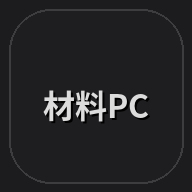
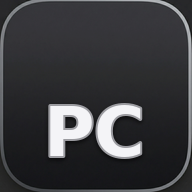
Add files via upload

diff --git a/index.html b/index.html
@@ -3,7 +3,7 @@
 <head>
     <meta charset="UTF-8">
     <meta name="viewport" content="width=device-width, initial-scale=1.0, maximum-scale=1.0, user-scalable=no, viewport-fit=cover">
-    <title>材料取り・面積計算 アプリ</title>
+    <title>KYOWA ROOF</title>
     <!-- Tailwind CSS -->
     <script src="https://cdn.tailwindcss.com"></script>
     <!-- React & ReactDOM -->
@@ -166,6 +166,16 @@
         }
 
     </style>
+
+    <meta name="theme-color" content="#0b0b0f">
+    <meta name="apple-mobile-web-app-capable" content="yes">
+    <meta name="apple-mobile-web-app-status-bar-style" content="black-translucent">
+    <meta name="apple-mobile-web-app-title" content="材料PC">
+    <meta name="mobile-web-app-capable" content="yes">
+    <link rel="manifest" href="manifest.webmanifest">
+    <link rel="icon" type="image/png" sizes="192x192" href="icon-192.png">
+    <link rel="apple-touch-icon" href="apple-touch-icon.png">
+
 </head>
 <body class="bg-black flex flex-col h-screen">
     <div id="root" class="flex flex-col flex-1 h-full overflow-hidden"></div>
@@ -278,6 +288,7 @@
         const AreaApp = ({ areaStateRef, savedData, setSavedData, showToast }) => {
             const canvasRef = useRef(null);
             const containerRef = useRef(null);
+            const inputRef = useRef(null);
             
             const [areaValue, setAreaValue] = useState('--.--');
             const [slopeInput, setSlopeInput] = useState('');
@@ -327,6 +338,7 @@
                 const prev = s.points[(idx - 1 + s.points.length) % s.points.length];
                 const curr = s.points[idx];
                 const next = s.points[(idx + 1) % s.points.length];
+                if (!prev || !curr || !next) return 0;
                 const angIn = Math.atan2(curr.y - prev.y, curr.x - prev.x);
                 const angOut = Math.atan2(next.y - curr.y, next.x - curr.x);
                 let turn = angOut - angIn;
@@ -404,6 +416,7 @@
                         const isFixed = s.fixedAngles[i] !== undefined, label = `${isFixed ? s.fixedAngles[i] : Math.round(actualD * 10) / 10}°`;
                         ctx.font = '600 12px sans-serif'; const tw = ctx.measureText(label).width;
                         const pPrev = w2s(s.points[(i - 1 + s.points.length) % s.points.length]), pCurr = w2s(s.points[i]), pNext = w2s(s.points[(i + 1) % s.points.length]);
+                        if (!pPrev || !pCurr || !pNext) return;
                         const v1 = { x: pPrev.x - pCurr.x, y: pPrev.y - pCurr.y }, v2 = { x: pNext.x - pCurr.x, y: pNext.y - pCurr.y };
                         const l1 = Math.hypot(v1.x, v1.y), l2 = Math.hypot(v2.x, v2.y);
                         let mid = { x: v1.x / l1 + v2.x / l2, y: v1.y / l1 + v2.y / l2 };
@@ -459,16 +472,41 @@
 
             const executeUpdate = () => {
                 if (!s.isClosed) { showToast('図形を閉じてから実行してください'); return; }
-                saveState(); const N = s.points.length; let hasManual = false;
+                saveState(); 
+                const N = s.points.length; 
+                let hasManual = false;
+
+                // スケール（ppx）の計算
                 for (let i = 0; i < N; i++) {
                     if (s.manualLengths[i] !== undefined) {
-                        const d = Math.hypot(s.points[(i+1)%N].x - s.points[i].x, s.points[(i+1)%N].y - s.points[i].y); s.ppx = d / s.manualLengths[i]; hasManual = true; break;
+                        const d = Math.hypot(s.points[(i+1)%N].x - s.points[i].x, s.points[i].y - s.points[i].y); 
+                        s.ppx = d / s.manualLengths[i]; 
+                        hasManual = true; 
+                        break;
                     }
                 }
-                if (!hasManual) { const d = Math.hypot(s.points[1].x - s.points[0].x, s.points[1].y - s.points[0].y); s.ppx = d / 10; }
-                for (let i = 0; i < N - 1; i++) if (s.manualLengths[i] === undefined) { const d = Math.hypot(s.points[(i+1)%N].x - s.points[i].x, s.points[(i+1)%N].y - s.points[i].y); s.manualLengths[i] = Math.round((d / s.ppx) * 100) / 100; }
-                for (let i = 1; i < N - 1; i++) if (s.fixedAngles[i] === undefined) { let actualD = getActualAngle(i); if (s.updateCount === 0) { if (Math.abs(actualD - 90) <= 25) s.fixedAngles[i] = 90; else if (Math.abs(actualD - 270) <= 25) s.fixedAngles[i] = 270; else s.fixedAngles[i] = Math.round(actualD * 10) / 10; } else s.fixedAngles[i] = Math.round(actualD * 10) / 10; }
-                s.updateCount++; rebuildGeometry(true); draw(); showToast('作図を更新しました');
+                if (!hasManual) { 
+                    const d = Math.hypot(s.points[1].x - s.points[0].x, s.points[1].y - s.points[0].y); 
+                    s.ppx = d / 10; 
+                }
+
+                // 直角スナップ処理（直角への補正）
+                for (let i = 0; i < N; i++) {
+                    if (s.fixedAngles[i] === undefined) {
+                        let actualD = getActualAngle(i);
+                        // 90度または270度に近い（±25度以内）場合は自動でスナップ固定する
+                        if (Math.abs(actualD - 90) <= 25) {
+                            s.fixedAngles[i] = 90;
+                        } else if (Math.abs(actualD - 270) <= 25) {
+                            s.fixedAngles[i] = 270;
+                        }
+                    }
+                }
+
+                s.updateCount++; 
+                rebuildGeometry(true); 
+                draw(); 
+                showToast('作図を更新しました');
             };
 
             const openModal = () => {
@@ -508,12 +546,14 @@
                 saveState(); const val = parseFloat(modalValue);
                 if (s.activeMode === 'edge') { if (!isNaN(val) && val > 0) s.manualLengths[s.selectedIdx] = val; else delete s.manualLengths[s.selectedIdx]; }
                 else { if (!isNaN(val) && val >= 0) s.fixedAngles[s.selectedIdx] = val; else delete s.fixedAngles[s.selectedIdx]; }
-                setIsModalOpen(false); rebuildGeometry(false); draw();
+                setIsModalOpen(false); 
+                draw();
             };
 
             const exportDrawing = () => {
                 if (s.points.length < 3 || !s.isClosed) { showToast('図形を閉じてから保存してください'); return; }
-                const dataUrl = canvasRef.current.toDataURL('image/png');
+                const canvas = canvasRef.current;
+                const dataUrl = canvas.toDataURL('image/png');
                 const currentState = {
                     points: JSON.parse(JSON.stringify(s.points)),
                     manualLengths: {...s.manualLengths},
@@ -540,7 +580,7 @@
                     return;
                 }
                 
-                saveState(); // 現在の状態を履歴に積んでUndo可能にする
+                saveState();
                 
                 s.points = JSON.parse(JSON.stringify(data.state.points));
                 s.manualLengths = {...data.state.manualLengths};
@@ -654,7 +694,7 @@
                 const onTouchMove = (e) => {
                     if (s.isInteractingWithCanvas && e.touches.length === 2 && s.initialPinchDist) {
                         const d = Math.hypot(e.touches[0].clientX - e.touches[1].clientX, e.touches[0].clientY - e.touches[1].clientY), nz = Math.max(0.1, Math.min(10, s.initialZoom * (d / s.initialPinchDist))), r = nz / s.zoom;
-                        s.cameraX = s.initialPinchCenter.x - (s.initialPinchCenter.x - s.cameraX) * r; s.cameraY = s.initialPinchCenter.y - (s.initialPinchCenter.y - s.cameraY) * r; s.zoom = nz; draw();
+                        s.cameraX = s.initialPinchCenter.x - (s.initialPinchCenter.x - s.cameraX) * r; s.cameraY = s.initialPinchCenter.y - (s.cameraY) * r; s.zoom = nz; draw();
                         if (e.cancelable) e.preventDefault(); return;
                     }
                     onMove(e);
@@ -1368,6 +1408,7 @@
                                         </div>
 
                                         <div className="space-y-4 pl-1 md:overflow-y-auto scrollbar-hide pb-10">
+                                            {/* 自動集計リスト（上部に配置） */}
                                             {Object.keys(calcSummaryByName).length > 0 && (
                                                 <div className="bg-[#1c1c1e] rounded-[20px] shadow-2xl overflow-hidden border border-[#545458] mb-4">
                                                     <div className="bg-[#2c2c2e] py-1.5 px-4 border-b border-[#545458]">
@@ -1733,5 +1774,14 @@
         const root = ReactDOM.createRoot(document.getElementById('root'));
         root.render(<App />);
     </script>
+
+    <script>
+    if ('serviceWorker' in navigator) {
+      window.addEventListener('load', function () {
+        navigator.serviceWorker.register('./sw.js').catch(function (err) { console.log(err); });
+      });
+    }
+    </script>
+
 </body>
 </html>

diff --git a/sw.js b/sw.js
@@ -1,43 +1,5 @@
-const CACHE_NAME = 'zairyo-pc-complete-v1';
-const APP_SHELL = [
-  './',
-  './index.html',
-  './manifest.json',
-  './icon-180.png',
-  './icon-192.png',
-  './icon-512.png',
-  './icon-1024.png',
-  './splash-1170x2532.png'
-];
-
-self.addEventListener('install', (event) => {
-  event.waitUntil(
-    caches.open(CACHE_NAME).then((cache) => cache.addAll(APP_SHELL)).then(() => self.skipWaiting())
-  );
-});
-
-self.addEventListener('activate', (event) => {
-  event.waitUntil(
-    caches.keys().then((keys) => Promise.all(
-      keys.map((key) => key !== CACHE_NAME ? caches.delete(key) : Promise.resolve())
-    )).then(() => self.clients.claim())
-  );
-});
-
-self.addEventListener('fetch', (event) => {
-  if (event.request.method !== 'GET') return;
-  const url = new URL(event.request.url);
-
-  if (event.request.mode === 'navigate') {
-    event.respondWith(
-      fetch(event.request).catch(() => caches.match('./index.html'))
-    );
-    return;
-  }
-
-  if (url.origin === location.origin) {
-    event.respondWith(
-      caches.match(event.request).then((cached) => cached || fetch(event.request))
-    );
-  }
-});
+const CACHE_NAME='zairyo-pc-pwa-v1';
+const ASSETS=['./','./index.html','./manifest.webmanifest','./icon-192.png','./icon-512.png','./icon-maskable-192.png','./icon-maskable-512.png','./apple-touch-icon.png'];
+self.addEventListener('install',e=>{e.waitUntil(caches.open(CACHE_NAME).then(c=>c.addAll(ASSETS)));self.skipWaiting();});
+self.addEventListener('activate',e=>{e.waitUntil(caches.keys().then(keys=>Promise.all(keys.filter(k=>k!==CACHE_NAME).map(k=>caches.delete(k)))));self.clients.claim();});
+self.addEventListener('fetch',e=>{if(e.request.method!=='GET')return;e.respondWith(caches.match(e.request).then(c=>c||fetch(e.request).then(r=>{const copy=r.clone();caches.open(CACHE_NAME).then(cache=>cache.put(e.request,copy)).catch(()=>{});return r;}).catch(()=>caches.match('./index.html'))));});
